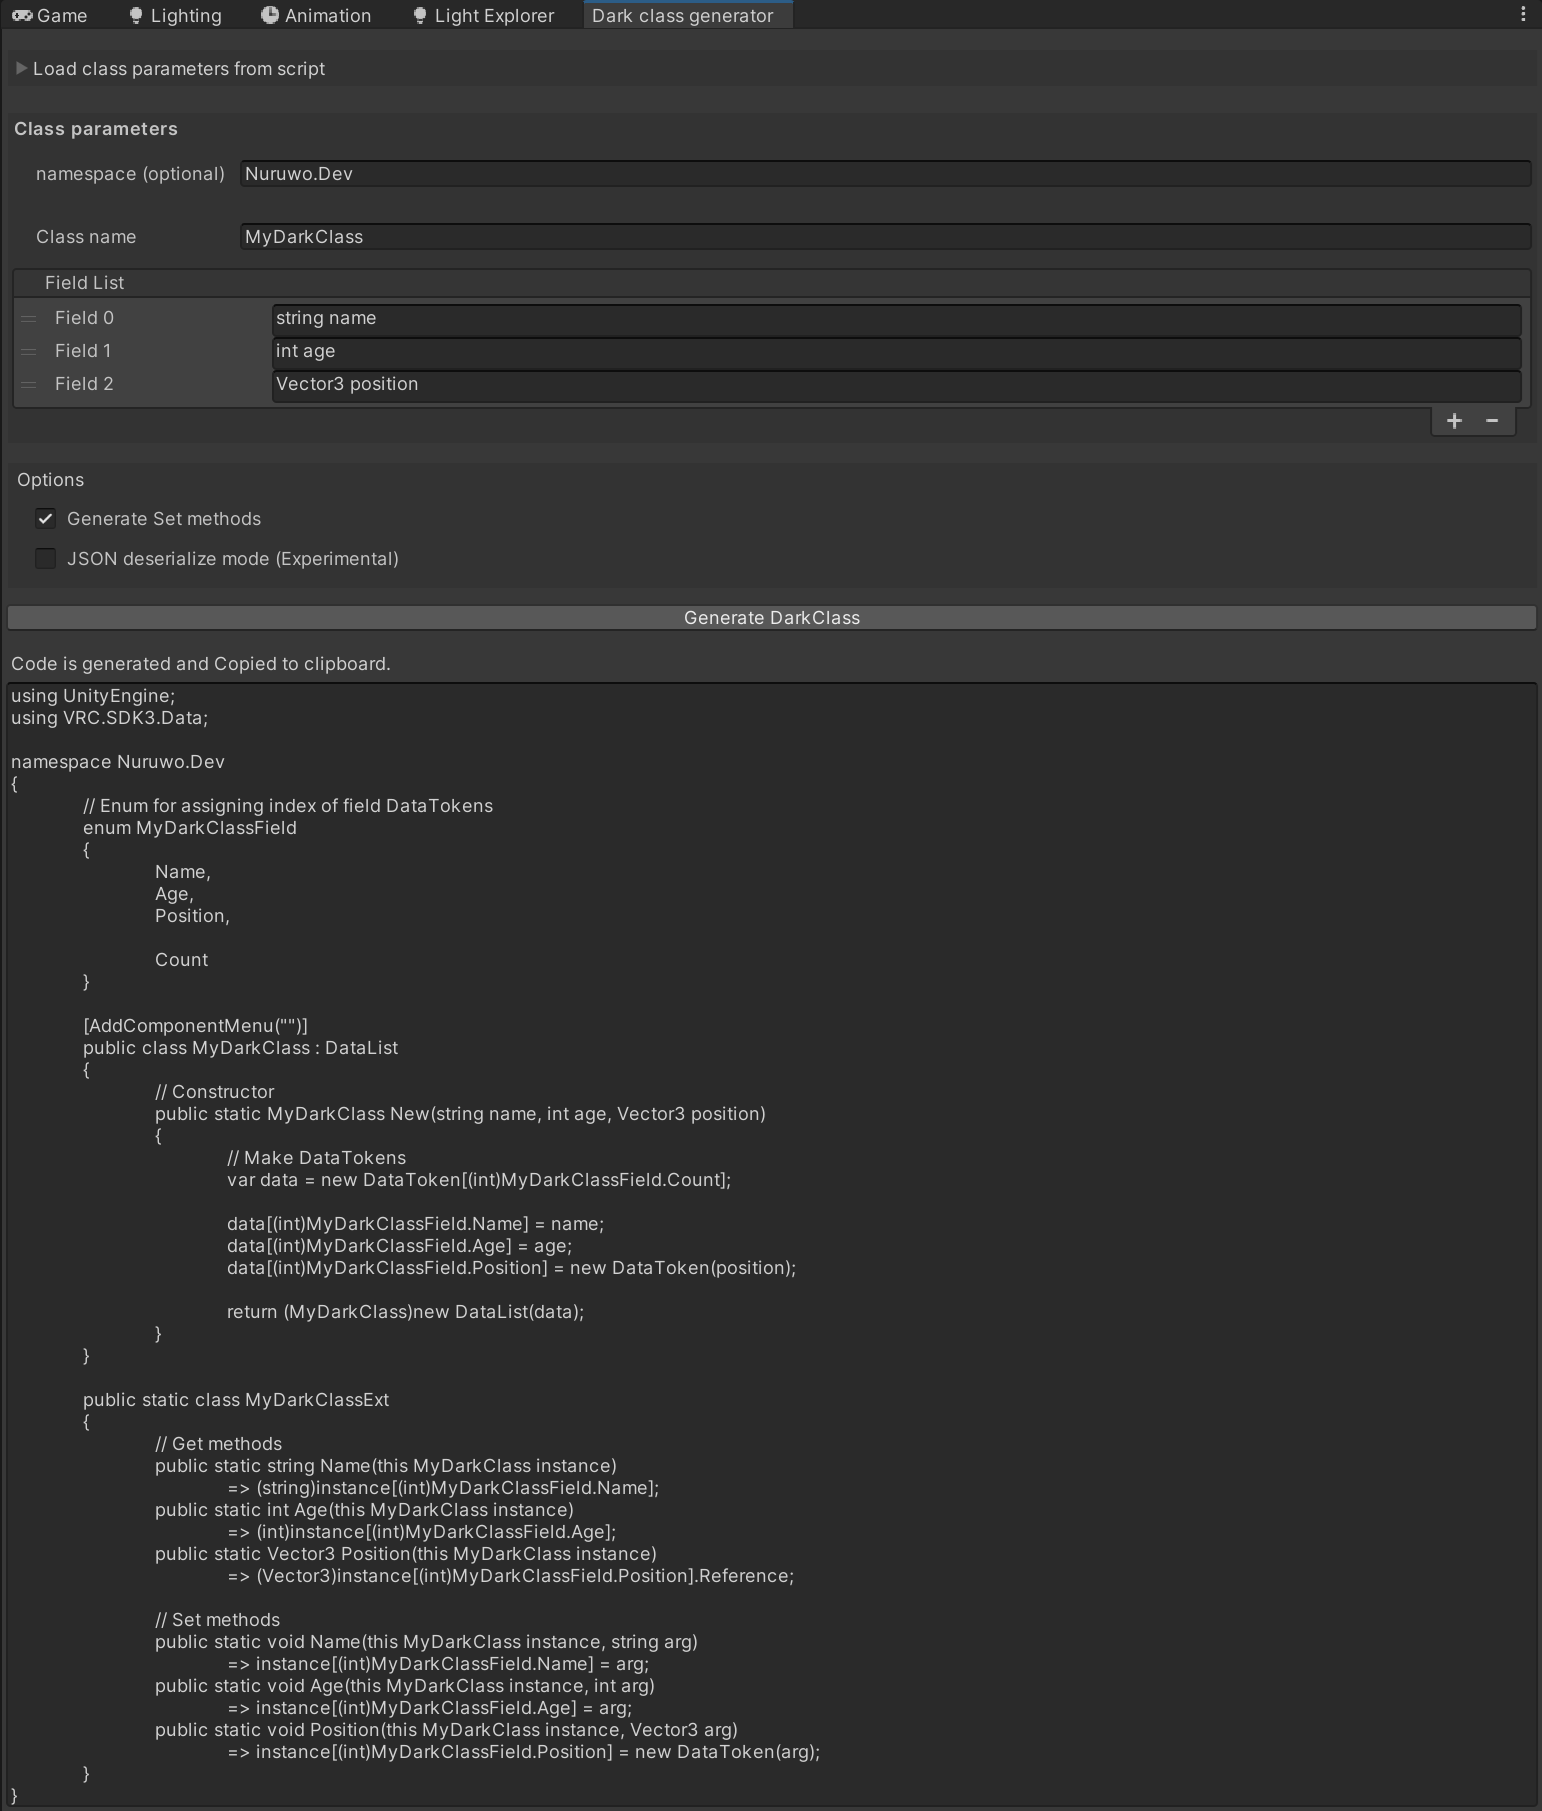
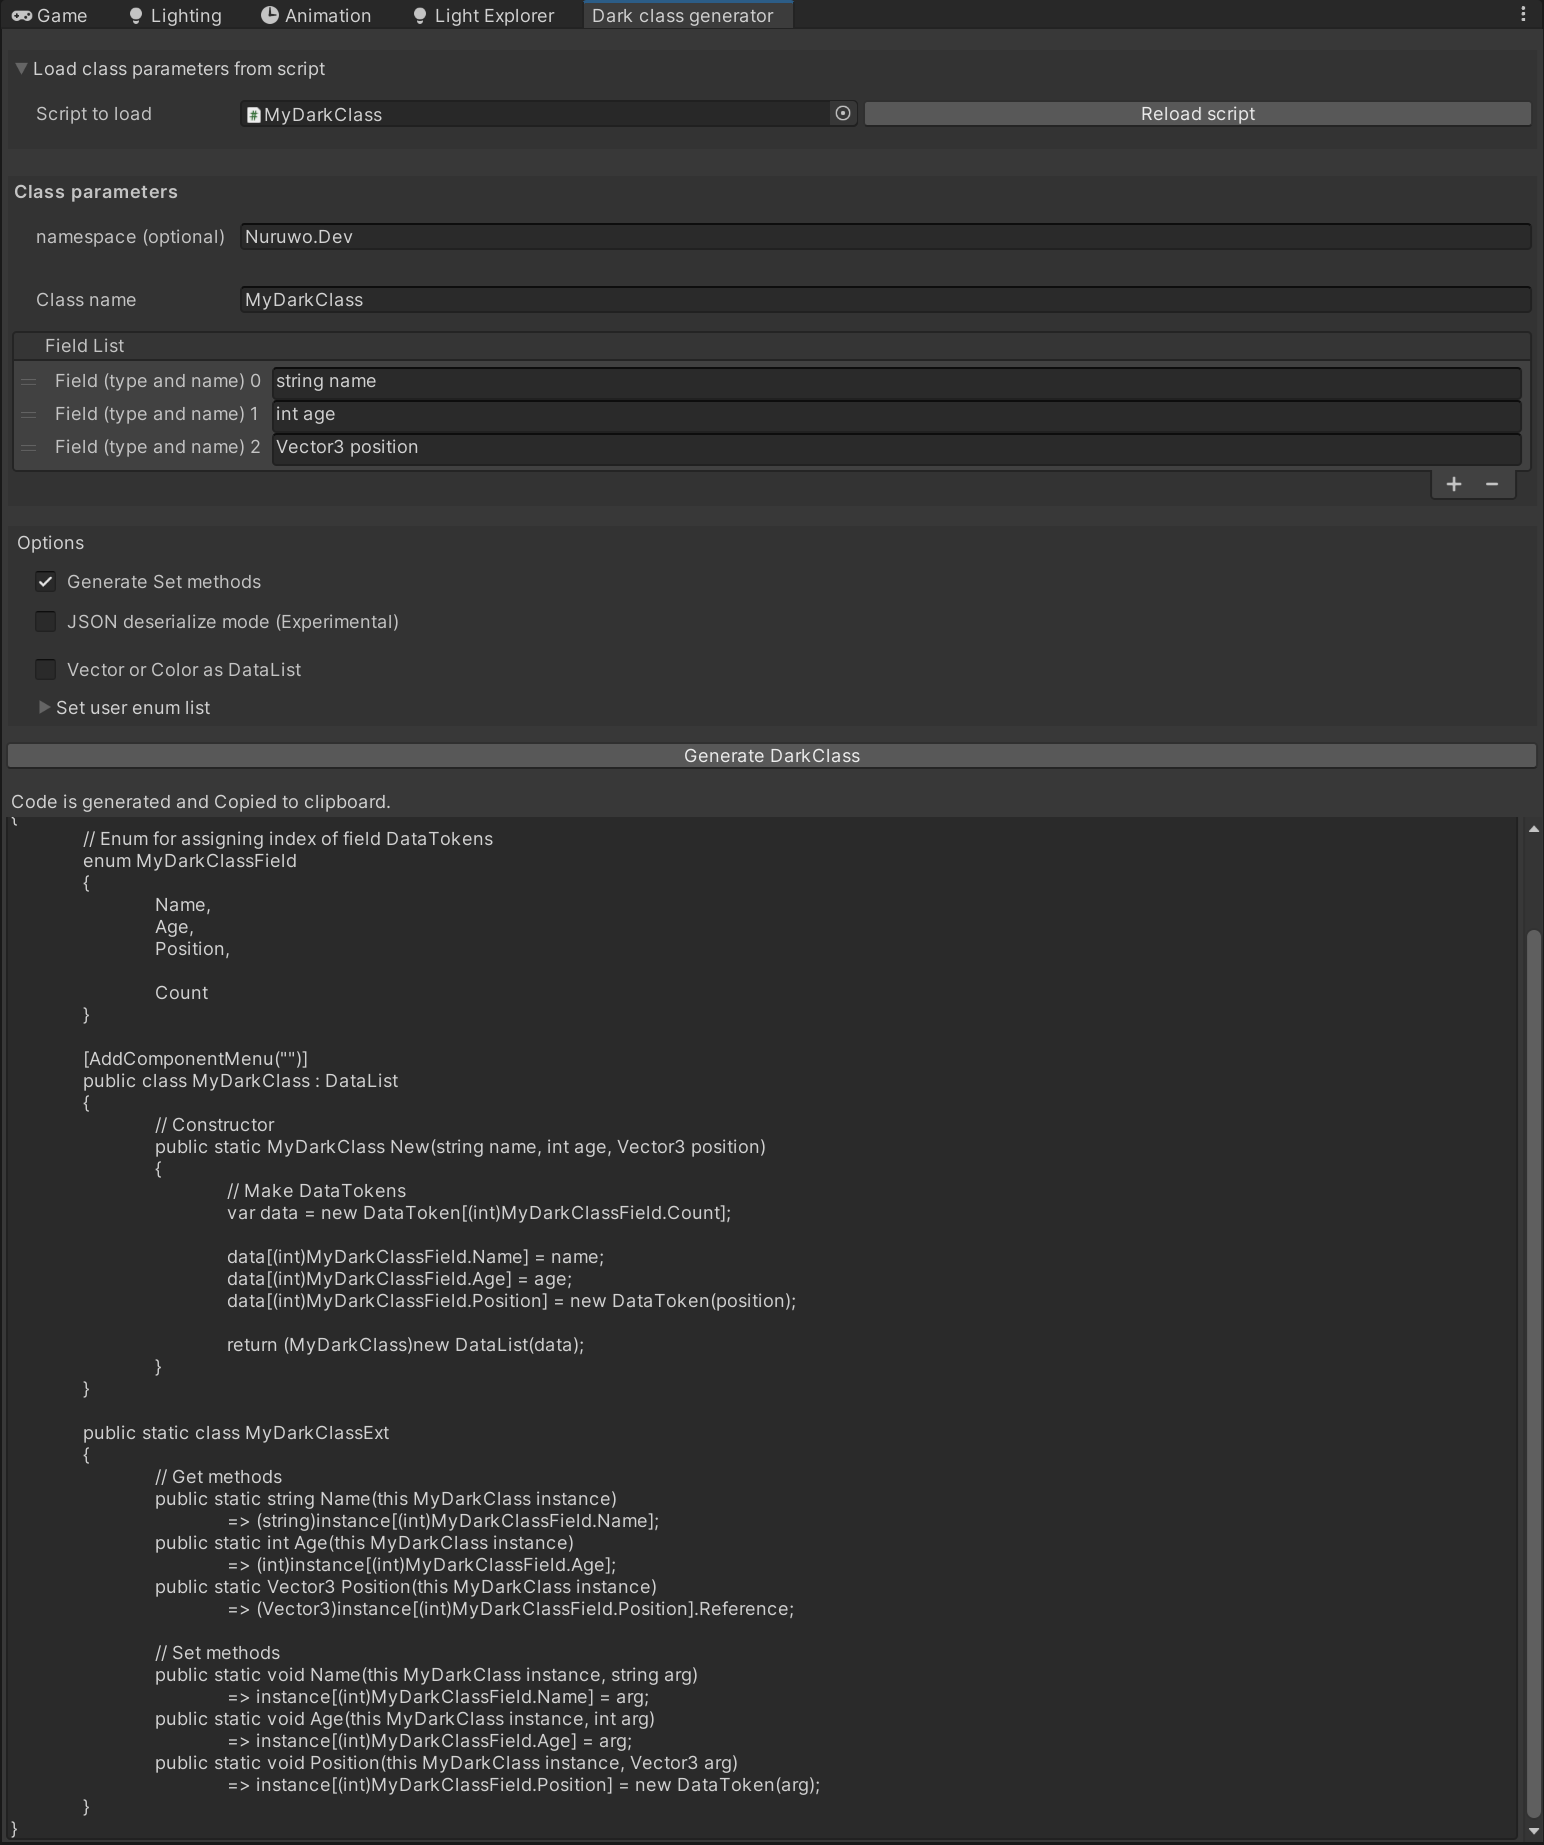
fix

diff --git a/Editor/DarkClassGeneratorEditorWindow.cs b/Editor/DarkClassGeneratorEditorWindow.cs
@@ -14,6 +14,7 @@ namespace Nuruwo.Tool
     {
         /*------------------------------private values----------------------------------*/
         private bool _loadFoldIsOpen = false;
+        private bool _enumFoldIsOpen = false;
 
         private bool _generateSetMethod = true;
         private bool _jsonDeserializeMode = false;
@@ -21,10 +22,12 @@ namespace Nuruwo.Tool
 
         private TextAsset _textAsset;
         private string _prevScriptName = string.Empty;
-        private ReorderableList _reorderableList;
+        private ReorderableList _reorderableFieldList;
+        private ReorderableList _reorderableEnumList;
         private string _className = string.Empty;
         private string _nameSpace = string.Empty;
         private List<string> _fieldList = new List<string>() { "int value" };
+        private List<string> _enumList = new List<string>() { "UserEnum" };
         private string _result = string.Empty;
         private string _generatedCode = string.Empty;
         private Vector2 _scrollPosition = Vector2.zero; //for textArea scroll
@@ -38,7 +41,8 @@ namespace Nuruwo.Tool
 
         private void OnEnable()
         {
-            UpdateReorderableList(_fieldList);
+            UpdateReorderableFieldList(_fieldList);
+            UpdateReorderableEnumList(_enumList);
         }
 
         /*------------------------------UI Look---------------------------------*/
@@ -90,26 +94,37 @@ namespace Nuruwo.Tool
             EditorGUILayout.Space(10);
 
             //Augment list
-            _reorderableList.DoLayoutList();
+            _reorderableFieldList.DoLayoutList();
             EditorGUI.indentLevel--;
             EditorGUILayout.EndVertical();
             EditorGUILayout.Space(5);
 
             //options
-            EditorGUILayout.BeginVertical(GUI.skin.box);
-            GUILayout.Label("Options");
-            EditorGUI.indentLevel++;
-            EditorGUILayout.Space(5);
-            _generateSetMethod = EditorGUILayout.ToggleLeft(" Generate Set methods", _generateSetMethod);
-            EditorGUILayout.Space(5);
-            _jsonDeserializeMode = EditorGUILayout.ToggleLeft(" JSON deserialize mode (Experimental)", _jsonDeserializeMode);
-            EditorGUILayout.Space(5);
-            EditorGUILayout.Space(5);
-            _vectorOrColorAsDataList = EditorGUILayout.ToggleLeft(" Vector or Color as DataList", _vectorOrColorAsDataList);
-            EditorGUILayout.Space(5);
-            EditorGUI.indentLevel--;
-            EditorGUILayout.EndVertical();
-            EditorGUILayout.Space(5);
+            {
+                EditorGUILayout.BeginVertical(GUI.skin.box);
+                GUILayout.Label("Options");
+                EditorGUI.indentLevel++;
+                EditorGUILayout.Space(5);
+                _generateSetMethod = EditorGUILayout.ToggleLeft(" Generate Set methods", _generateSetMethod);
+                EditorGUILayout.Space(5);
+                _jsonDeserializeMode = EditorGUILayout.ToggleLeft(" JSON deserialize mode (Experimental)", _jsonDeserializeMode);
+                EditorGUILayout.Space(5);
+                EditorGUILayout.Space(5);
+                _vectorOrColorAsDataList = EditorGUILayout.ToggleLeft(" Vector or Color as DataList", _vectorOrColorAsDataList);
+                EditorGUILayout.Space(5);
+
+                //custom enum
+                _enumFoldIsOpen = EditorGUILayout.Foldout(_enumFoldIsOpen, "Set user enum list");
+                if (_enumFoldIsOpen)
+                {
+                    //Augment list
+                    _reorderableEnumList.DoLayoutList();
+                }
+
+                EditorGUI.indentLevel--;
+                EditorGUILayout.EndVertical();
+                EditorGUILayout.Space(5);
+            }
 
             //Generate button
             var canGenerate = !string.IsNullOrEmpty(_className) && _fieldList.Count > 0 && !string.IsNullOrEmpty(_fieldList[0]);
@@ -137,10 +152,10 @@ namespace Nuruwo.Tool
             EditorGUILayout.EndScrollView();
         }
 
-        private void UpdateReorderableList(List<string> list)
+        private void UpdateReorderableFieldList(List<string> list)
         {
             _fieldList = list;
-            _reorderableList = new ReorderableList(
+            _reorderableFieldList = new ReorderableList(
               elements: _fieldList,
               elementType: typeof(string),
               draggable: true,
@@ -148,14 +163,32 @@ namespace Nuruwo.Tool
               displayAddButton: true,
               displayRemoveButton: true
             );
-            _reorderableList.drawHeaderCallback = rect => EditorGUI.LabelField(rect, "Field List");
-            _reorderableList.elementHeightCallback = index => 20;
-            _reorderableList.drawElementCallback = (rect, index, isActive, isFocused) =>
+            _reorderableFieldList.drawHeaderCallback = rect => EditorGUI.LabelField(rect, "Field List");
+            _reorderableFieldList.elementHeightCallback = index => 20;
+            _reorderableFieldList.drawElementCallback = (rect, index, isActive, isFocused) =>
             {
-                _fieldList[index] = EditorGUI.TextField(rect, "  Field " + index, _fieldList[index]);
+                _fieldList[index] = EditorGUI.TextField(rect, "  Field (type and name) " + index, _fieldList[index]);
             };
         }
 
+        private void UpdateReorderableEnumList(List<string> list)
+        {
+            _enumList = list;
+            _reorderableEnumList = new ReorderableList(
+              elements: _enumList,
+              elementType: typeof(string),
+              draggable: true,
+              displayHeader: true,
+              displayAddButton: true,
+              displayRemoveButton: true
+            );
+            _reorderableEnumList.drawHeaderCallback = rect => EditorGUI.LabelField(rect, "Enum List");
+            _reorderableEnumList.elementHeightCallback = index => 20;
+            _reorderableEnumList.drawElementCallback = (rect, index, isActive, isFocused) =>
+            {
+                _enumList[index] = EditorGUI.TextField(rect, "  Enum type " + index, _enumList[index]);
+            };
+        }
         /*------------------------------Generate DarkClass-----------------------------*/
 
         private string GenerateDarkClass(bool generateSetMethod)
@@ -380,6 +413,13 @@ namespace Nuruwo.Tool
 
         private bool CheckDataTokenTypeIsReference(string argumentType)
         {
+            var typeIsEnum = _enumList.ToArray().Contains(argumentType);
+            if (typeIsEnum)
+            {
+                //user enum type is Reference
+                return true;
+            }
+
             if (Regex.IsMatch(argumentType, @"\[\s*\]"))
             {
                 //array is reference
@@ -446,6 +486,7 @@ namespace Nuruwo.Tool
 
             var pureType = argumentType.Replace("[]", "");
 
+            sb.AppendLine();    //For readability
             sb.AppendLine($"\tvar {argumentName}List = dic[\"{argumentName}\"].DataList;");
             sb.AppendLine($"\tvar {argumentName}Count = {argumentName}List.Count;");
             sb.AppendLine($"\tvar {argumentName} = new {pureType}[{argumentName}Count];");
@@ -483,6 +524,16 @@ namespace Nuruwo.Tool
             sb.Append($"{leftPreString}{argumentName}{leftPostString} = ");
             var rightString = isArrayElement ? $"{argumentName}List[i]" : $"dic[\"{argumentName}\"]";
 
+            //check option Enum
+            var typeIsEnum = _enumList.ToArray().Contains(argumentType);
+            if (typeIsEnum)
+            {
+                //custom enum
+                sb.Append($"({argumentType})(int){rightString}.Number;");
+                return sb.ToString();
+            }
+
+            //switch with arg type
             switch (argumentType)
             {
                 case "bool":
@@ -512,7 +563,7 @@ namespace Nuruwo.Tool
                 case "TextureWrapMode":
                 case "GraphicsFormat":
                 case "TextureFormat":
-                    //enum
+                    //normal enum
                     sb.Append($"({argumentType})(int){rightString}.Number;");
                     break;
                 default:
@@ -547,6 +598,10 @@ namespace Nuruwo.Tool
             }
 
             var sb = new StringBuilder();
+            if (!isArrayElement)
+            {
+                sb.AppendLine();    //For readability
+            }
             var tab = isArrayElement ? $"\t\t" : $"\t";
             var arrayElement = isArrayElement ? $"[i]" : $"";
             var argNameString = isArrayElement ? $"{argumentName}List[i]" : $"dic[\"{argumentName}\"]";
@@ -570,7 +625,7 @@ namespace Nuruwo.Tool
                 sb.Append($"{elementName}");
                 if (i < elementNum - 1) { sb.Append(", "); }    //except last
             }
-            sb.AppendLine($");");
+            sb.Append($");");
 
             return sb.ToString();
         }
@@ -599,6 +654,10 @@ namespace Nuruwo.Tool
             }
 
             var sb = new StringBuilder();
+            if (!isArrayElement)
+            {
+                sb.AppendLine();    //For readability
+            }
             var tab = isArrayElement ? $"\t\t" : $"\t";
             var arrayElement = isArrayElement ? $"[i]" : $"";
             var argNameString = isArrayElement ? $"{argumentName}List[i]" : $"dic[\"{argumentName}\"]";
@@ -622,14 +681,12 @@ namespace Nuruwo.Tool
                 sb.Append($"{elementName}");
                 if (i < elementNum - 1) { sb.Append(", "); }    //except last
             }
-            sb.AppendLine($");");
+            sb.Append($");");
 
             return sb.ToString();
         }
 
         /*------------------------------Utility----------------------------------*/
-
-
         private string GenerateDataTokenAssign(string pClassName, string enumName, List<string> fieldList)
         {
             var sb = new StringBuilder();
@@ -672,7 +729,7 @@ namespace Nuruwo.Tool
             if (!string.IsNullOrEmpty(_className))
             {
                 var fieldStrings = ExtractFields(oneLineText, _className);
-                if (fieldStrings.Count > 0) { UpdateReorderableList(fieldStrings); }
+                if (fieldStrings.Count > 0) { UpdateReorderableFieldList(fieldStrings); }
             }
         }
 

diff --git a/README.md b/README.md
@@ -46,6 +46,12 @@ When optionally turned on, it generates the following code. Array and DarkClass 
 
 <kbd><img src="ReadMeImages/json_generate.png" alt="" width="900"/></kbd><br><br>
 
+## Enum
+If you use an enum that is not registered (or your own enum), you will get errors in editor.<br>
+To avoid errors, generate the enum by specifying the enum type in the options, as shown in the image.
+
+<kbd><img src="ReadMeImages/customEnum.png" alt="" width="900"/></kbd><br><br>
+
 ## Update
 In V2.0. Improved to DataList version.This was inspired by this code. Thanks 
 TheHelpfulHelper!</br>
